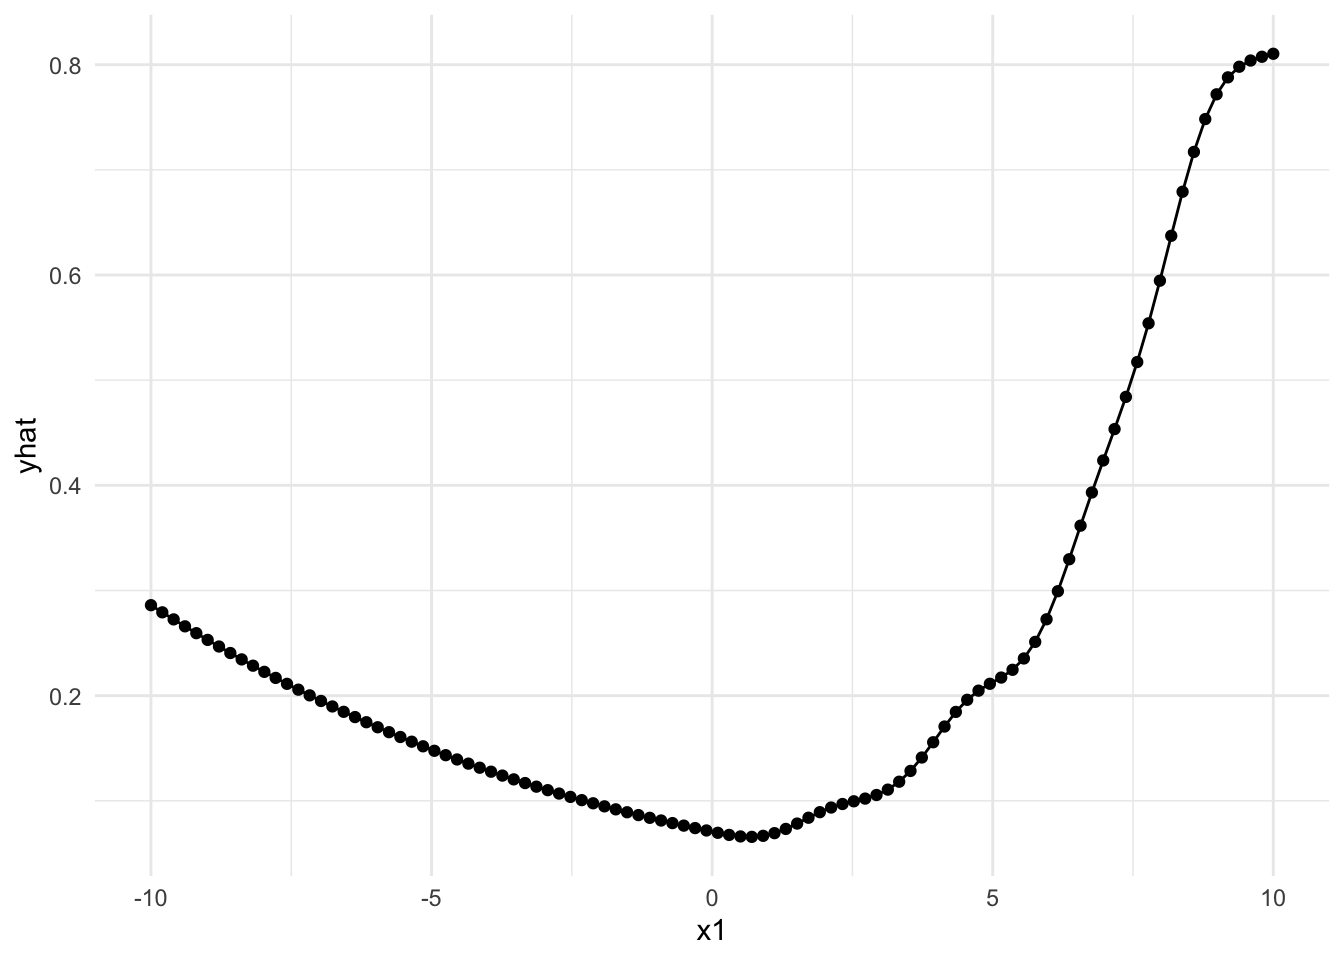
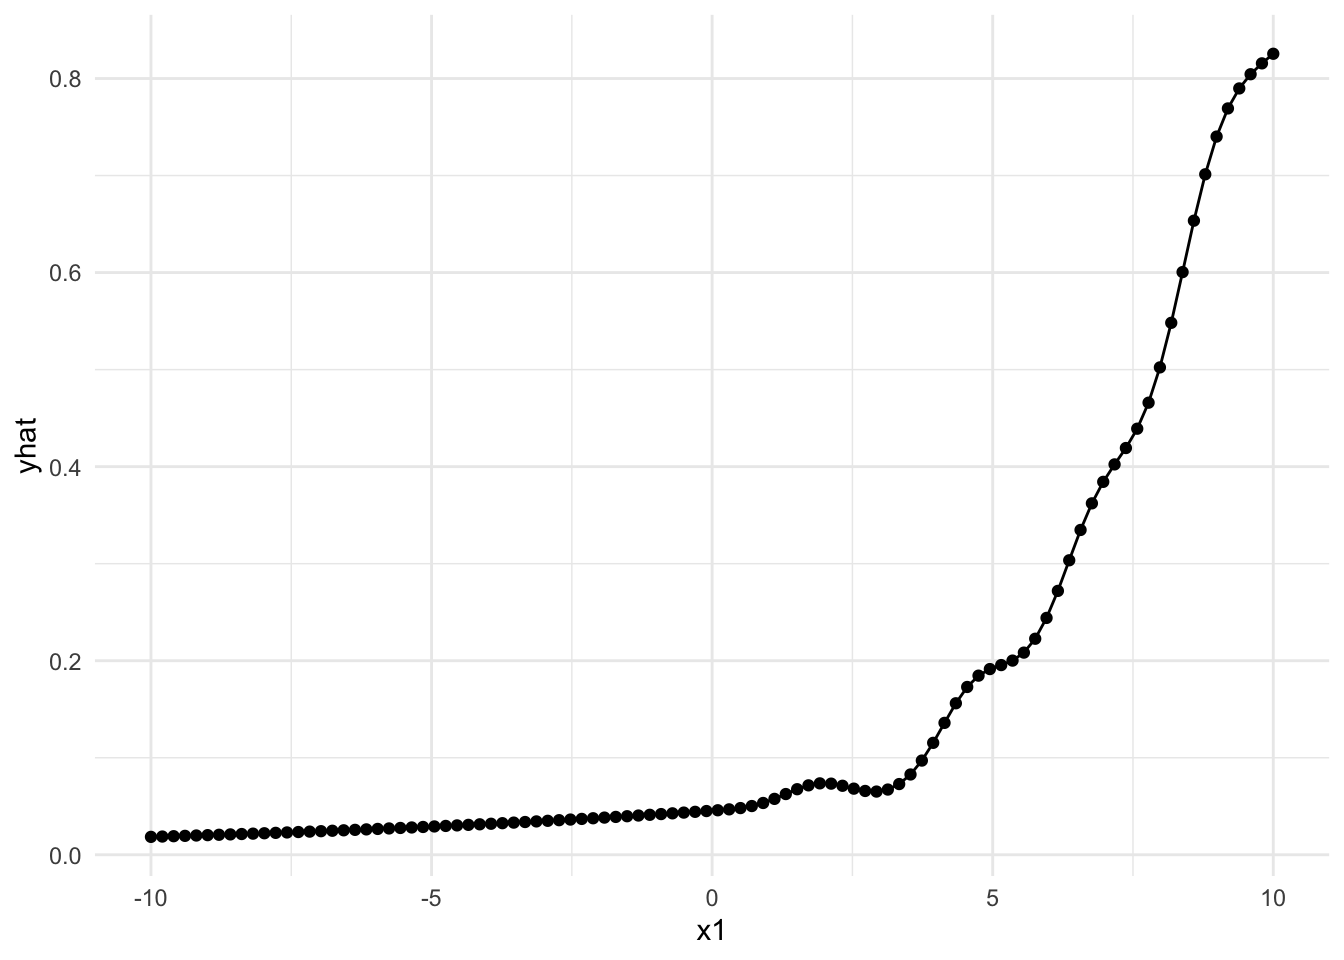
Cleanup

diff --git a/basics.html b/basics.html
@@ -242,7 +242,7 @@ div.tocify {
 
 <h1 class="title toc-ignore">DeepPAM Basics</h1>
 <h4 class="author">Lukas</h4>
-<h4 class="date">2021-06-07 18:13:07</h4>
+<h4 class="date">2021-06-07 18:25:34</h4>
 
 </div>
 
@@ -459,37 +459,39 @@ gam_nn</code></pre>
 ## Trainable params: 12
 ## Non-trainable params: 0
 ## ________________________________________________________________________________</code></pre>
-<pre class="r"><code>gam_nn %&gt;%
+<pre class="r"><code>history_unreg &lt;- gam_nn %&gt;%
   fit(
-    # First linear input (x2, x3), then smooth input (x1)
+    # First linear input (x2, x3), then smooth input (x1), but use mgcv output
     x = list(as.matrix(df[, 3:4]), model.matrix(gam_mgcv)[, 4:12]),
     y = df$y,
-    epochs = 200,
+    epochs = 500,
     batch_size = 32,
     validation_split = 0.2,
-    verbose = TRUE
+    verbose = interactive()
   )
 
-get_weights(gam_nn)</code></pre>
+plot(history_unreg)</code></pre>
+<p><img src="basics_files/figure-html/gam-keras-fit-1.png" width="672" /></p>
+<pre class="r"><code>get_weights(gam_nn)</code></pre>
 <pre><code>## [[1]]
-##           [,1]
-## [1,] 1.1195856
-## [2,] 0.7238031
+##          [,1]
+## [1,] 1.166848
+## [2,] 1.082154
 ## 
 ## [[2]]
-## [1] -1.017889
+## [1] -1.259862
 ## 
 ## [[3]]
 ##              [,1]
-##  [1,]  0.52285141
-##  [2,]  0.28750712
-##  [3,]  0.41107199
-##  [4,]  0.18188684
-##  [5,]  0.16799061
-##  [6,] -0.05286731
-##  [7,]  0.43142590
-##  [8,] -0.23235863
-##  [9,] -0.10990276</code></pre>
+##  [1,]  0.25794482
+##  [2,]  0.21479347
+##  [3,] -0.13971181
+##  [4,]  0.62765634
+##  [5,] -0.14168829
+##  [6,]  0.03759041
+##  [7,]  0.70733076
+##  [8,]  0.02966038
+##  [9,]  0.61160189</code></pre>
 </div>
 <div id="plot-comparion" class="section level2" number="2.3">
 <h2><span class="header-section-number">2.3</span> Plot comparion</h2>
@@ -601,37 +603,39 @@ gam_nn_reg</code></pre>
 ## Trainable params: 12
 ## Non-trainable params: 0
 ## ________________________________________________________________________________</code></pre>
-<pre class="r"><code>gam_nn_reg %&gt;%
+<pre class="r"><code>history_reg &lt;- gam_nn_reg %&gt;%
   fit(
     # First linear input (x2, x3), then smooth input (x1)
     x = list(as.matrix(df[, 3:4]), model.matrix(gam_mgcv)[, 4:12]),
     y = df$y,
-    epochs = 200,
+    epochs = 500,
     batch_size = 16,
     validation_split = 0.2,
-    verbose = TRUE
+    verbose = interactive()
   )
 
-get_weights(gam_nn_reg)</code></pre>
+plot(history_reg)</code></pre>
+<p><img src="basics_files/figure-html/gam-keras-fit-penalized-1.png" width="672" /></p>
+<pre class="r"><code>get_weights(gam_nn_reg)</code></pre>
 <pre><code>## [[1]]
 ##          [,1]
-## [1,] 1.142495
-## [2,] 1.054271
+## [1,] 1.155161
+## [2,] 1.116054
 ## 
 ## [[2]]
-## [1] -1.279392
+## [1] -1.3282
 ## 
 ## [[3]]
 ##                [,1]
-##  [1,]  0.0019381738
-##  [2,] -0.0035180959
-##  [3,]  0.0003470610
-##  [4,] -0.0040851720
-##  [5,]  0.0005828778
-##  [6,] -0.0039991857
-##  [7,] -0.0001550479
-##  [8,] -0.0171021596
-##  [9,]  1.3893942833</code></pre>
+##  [1,] -0.0013827397
+##  [2,] -0.0036996331
+##  [3,] -0.0002525857
+##  [4,] -0.0027773255
+##  [5,]  0.0011506539
+##  [6,] -0.0029286104
+##  [7,]  0.0008859261
+##  [8,] -0.0161576923
+##  [9,]  1.4087466002</code></pre>
 <p>What do the predictions look like?</p>
 <pre class="r"><code>gam_nn_reg_preds &lt;- predict(gam_nn_reg, x = list(as.matrix(lpmat[, 2:3]), lpmat[, 4:12]))
 
